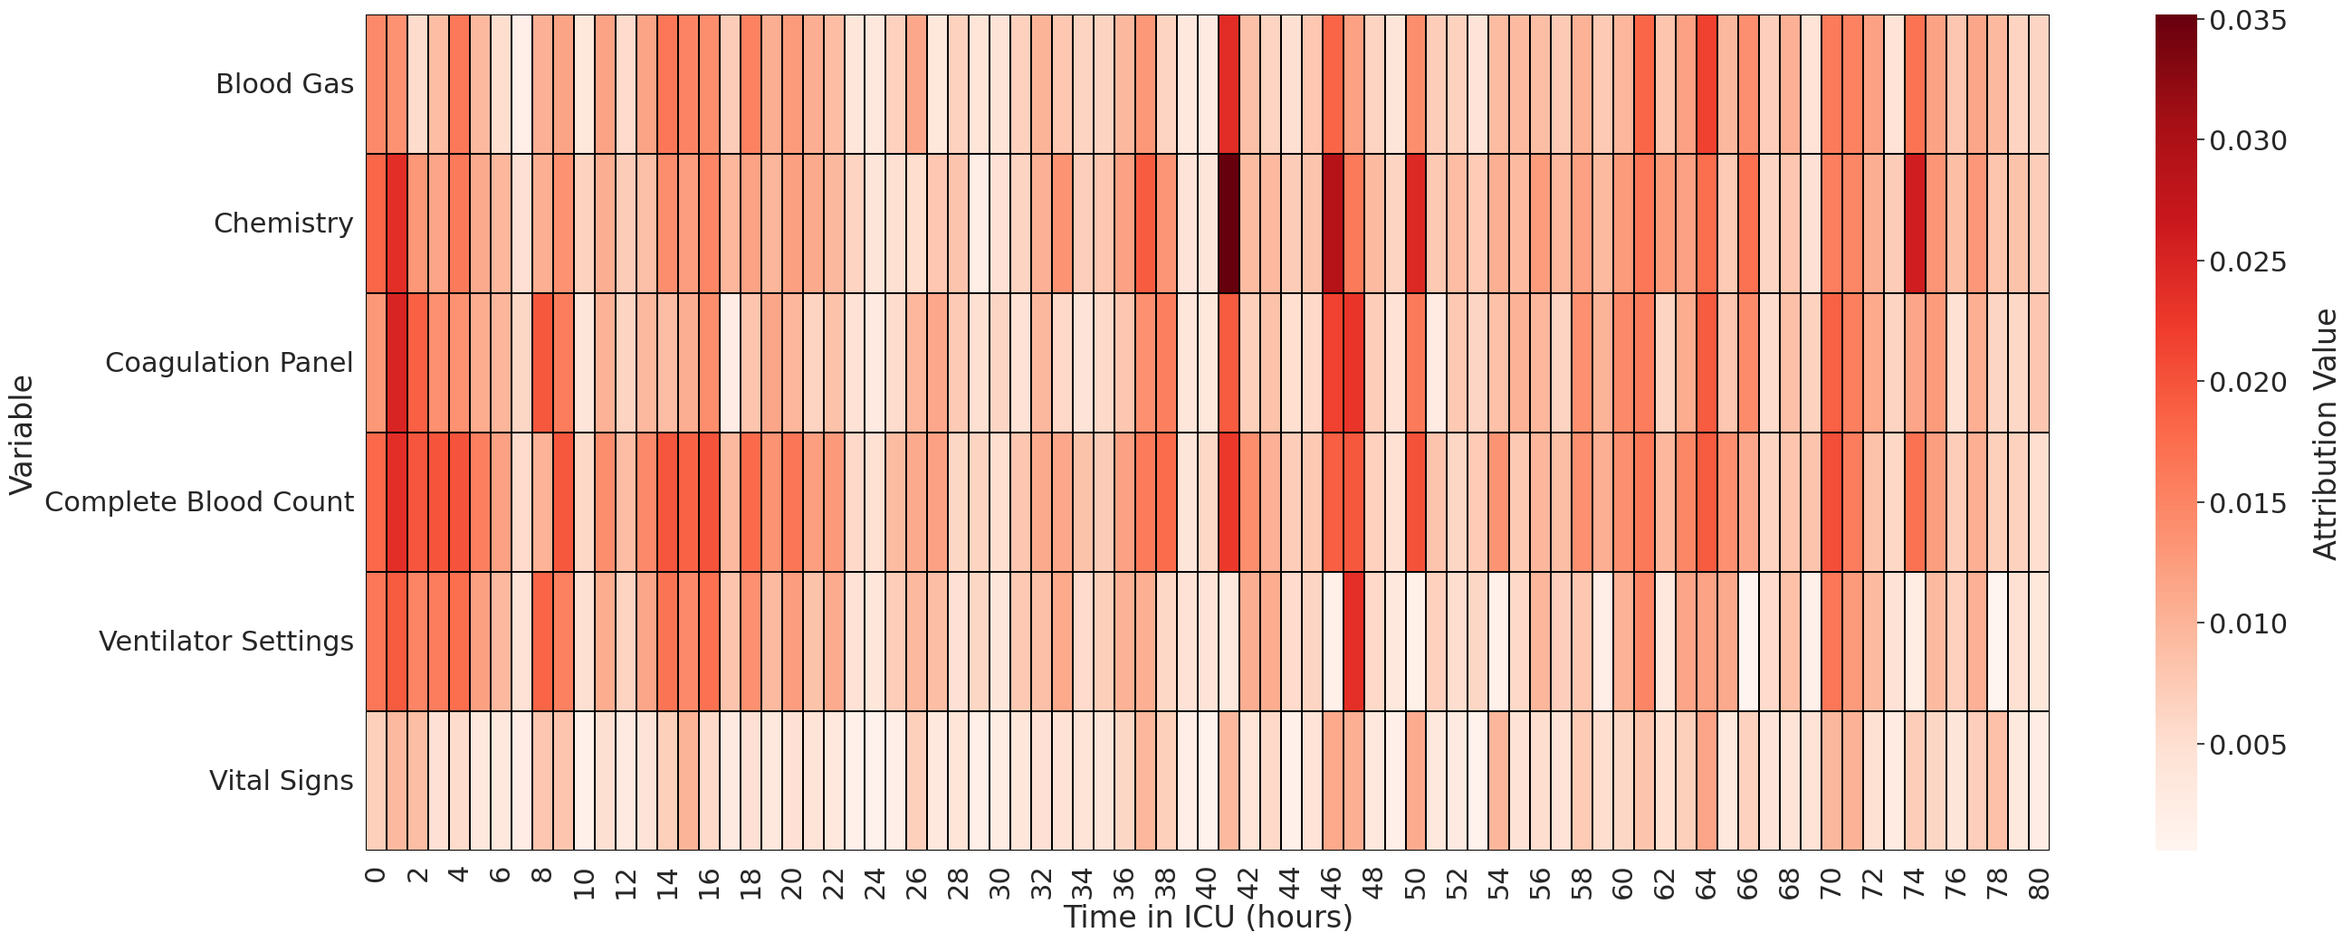
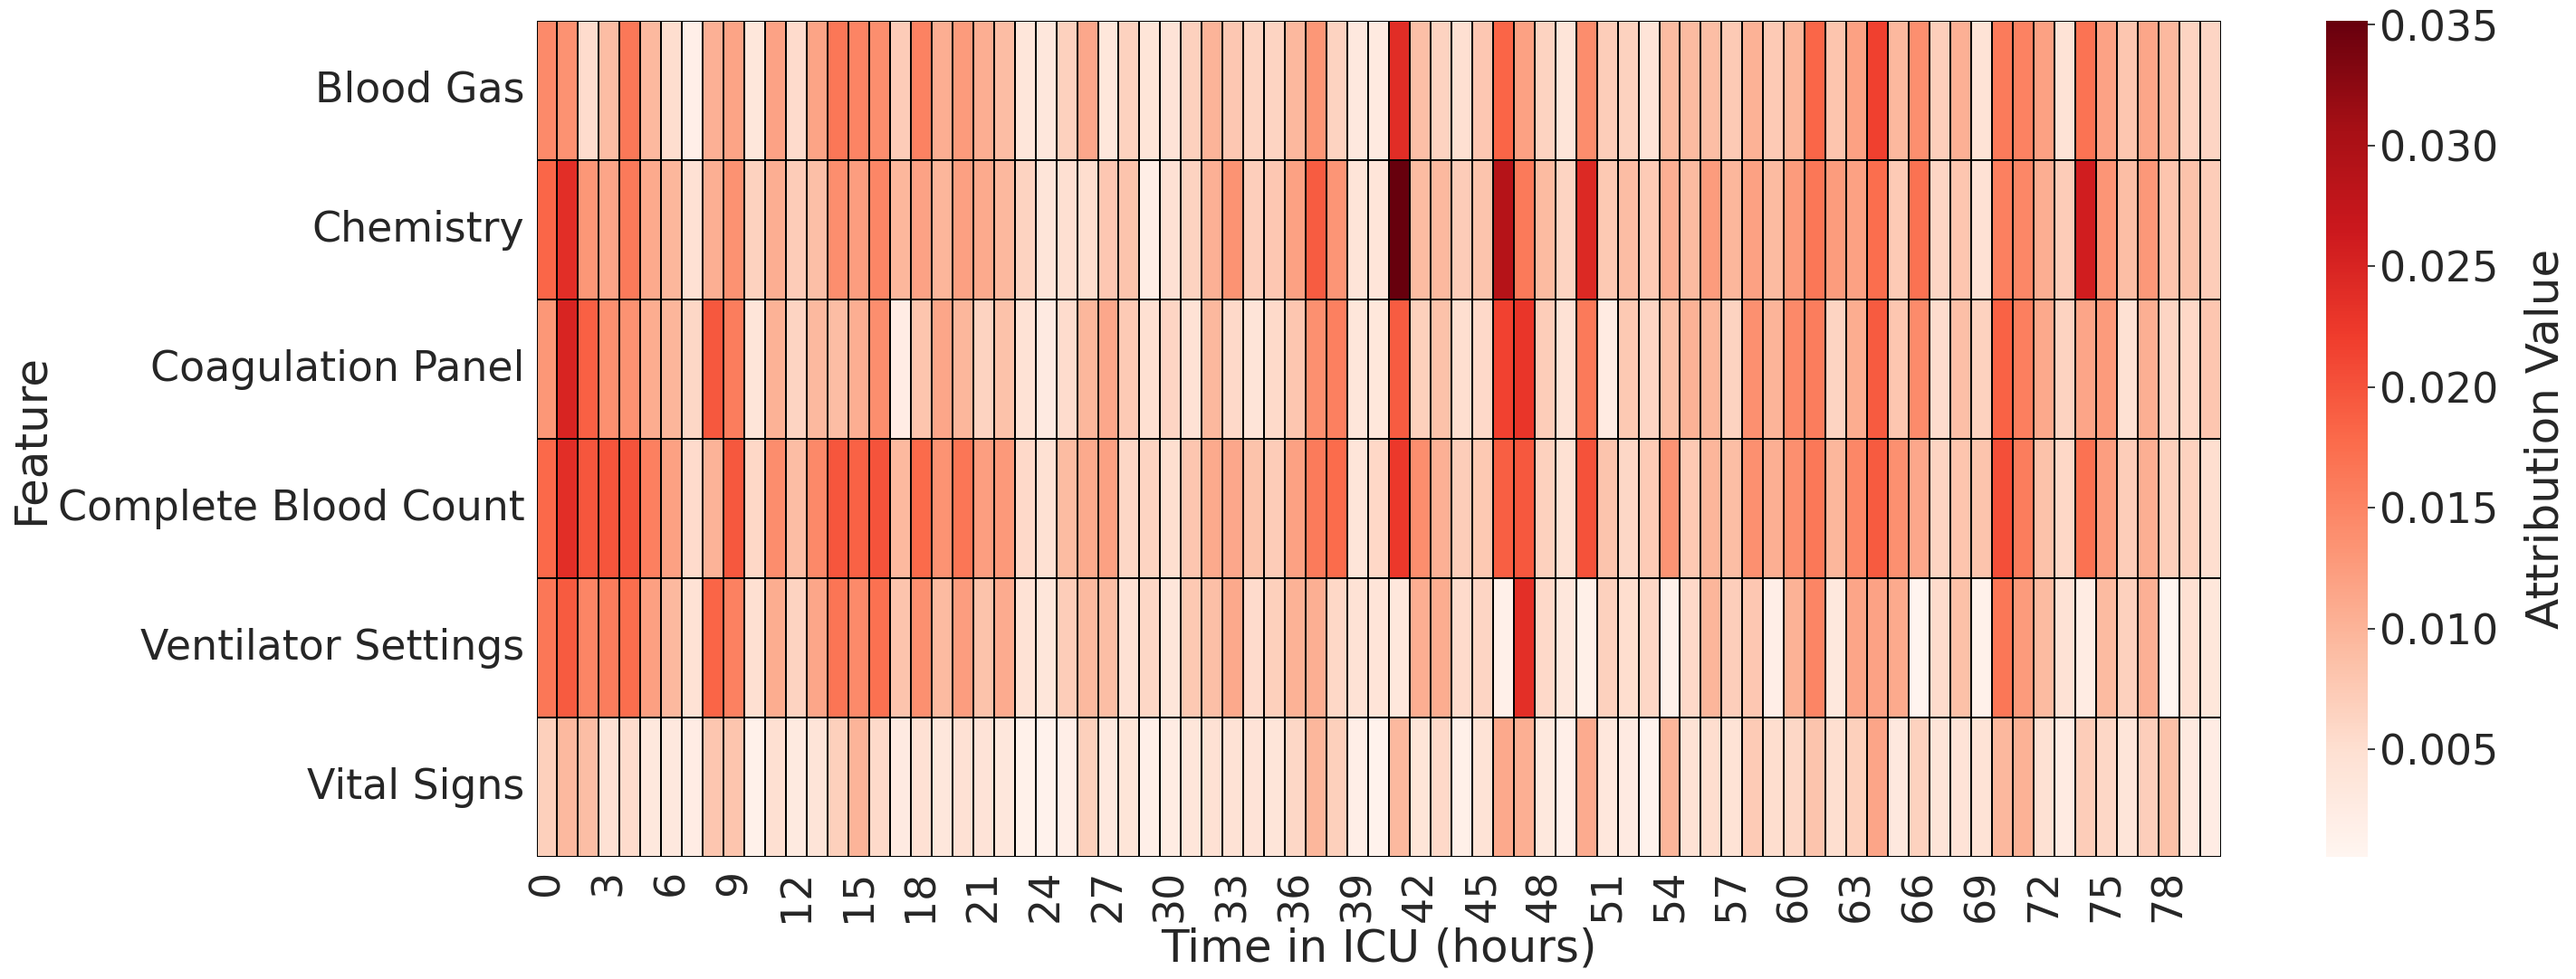
More chart updates

diff --git a/src/tabsep/reporting/attribHeatmap.py b/src/tabsep/reporting/attribHeatmap.py
@@ -29,8 +29,18 @@ def plot_groupped_importances(path: str, attribs):
     print(plottable)
 
     sns.set_theme(style="whitegrid", font_scale=1.5, rc={"figure.figsize": (10, 10)})
-    ax = sns.barplot(y="Feature", x="Importance", data=plottable, color="b", orient="h")
+    plottable.rename(
+        columns={"Importance": "Importance (arbitrary units)"}, inplace=True
+    )
+    ax = sns.barplot(
+        y="Feature",
+        x="Importance (arbitrary units)",
+        data=plottable,
+        color="b",
+        orient="h",
+    )
     # plt.xticks(rotation=45)
+    ax.set(xticklabels=[])
     plt.tight_layout()
     plt.savefig(path)
     plt.clf()
@@ -94,7 +104,7 @@ if __name__ == "__main__":
     sample_case_attrs.index = sample_case_attrs.index.astype(int)
     # sample_case_attrs = sample_case_attrs.rename(columns=pretty_features)
 
-    sns.set(font_scale=2)
+    sns.set(font_scale=3)
     fig, ax = plt.subplots(figsize=(30, 12))
     sns.heatmap(
         sample_case_attrs.transpose(),
@@ -111,7 +121,7 @@ if __name__ == "__main__":
     cbar.set_label("Attribution Value", labelpad=20)
     ax.set_xticklabels(ax.get_xticklabels(), rotation=90)
     ax.set_yticklabels(ax.get_yticklabels(), rotation=0)
-    ax.set_ylabel("Variable")
+    ax.set_ylabel("Feature")
     # ax.set_title(
     #     f"Validation set idx {sample_idx} prediction {preds[sample_idx]:.2f} actual {y[sample_idx]:.2f}"
     # )

diff --git a/src/tabsep/reporting/featureImportance.py b/src/tabsep/reporting/featureImportance.py
@@ -115,18 +115,22 @@ def plot_groupped_importances(path: str, tst_attribs: torch.Tensor, tabnet_attri
         {"Importance": "mean"}
     )
     print(plottable)
-    sns.set_theme(style="whitegrid", font_scale=1.75, rc={"figure.figsize": (20, 10)})
+    plottable.rename(
+        columns={"Importance": "Importance (arbitrary units)"}, inplace=True
+    )
+    sns.set_theme(style="whitegrid", font_scale=2.7, rc={"figure.figsize": (20, 10)})
     ax = sns.barplot(
         y="Feature",
-        x="Importance",
+        x="Importance (arbitrary units)",
         data=plottable,
         hue="Model",
         hue_order=["Time Series Transformer", "TabNet"],
         orient="h",
     )
-    # sns.move_legend(ax, "upper left", bbox_to_anchor=(1, 1))
-    plt.legend(title="Legend")
-    plt.xticks(rotation=270)
+    # plt.legend(title="Legend")
+    sns.move_legend(ax, "upper left", bbox_to_anchor=(1, 1), title="Legend")
+    # plt.xticks(rotation=270)
+    ax.set(xticklabels=[])
     plt.tight_layout()
     plt.savefig(path)
     plt.clf()

diff --git a/src/tabsep/reporting/performanceVsTime.py b/src/tabsep/reporting/performanceVsTime.py
@@ -106,6 +106,7 @@ if __name__ == "__main__":
     )
     sns.move_legend(ax, "upper right", title="Legend")
     # plt.legend(title="Legend")
+    ax.axhline(y=0.07, color="black", linestyle="--")
 
     plt.savefig("results/performanceVsTime.png")
 
